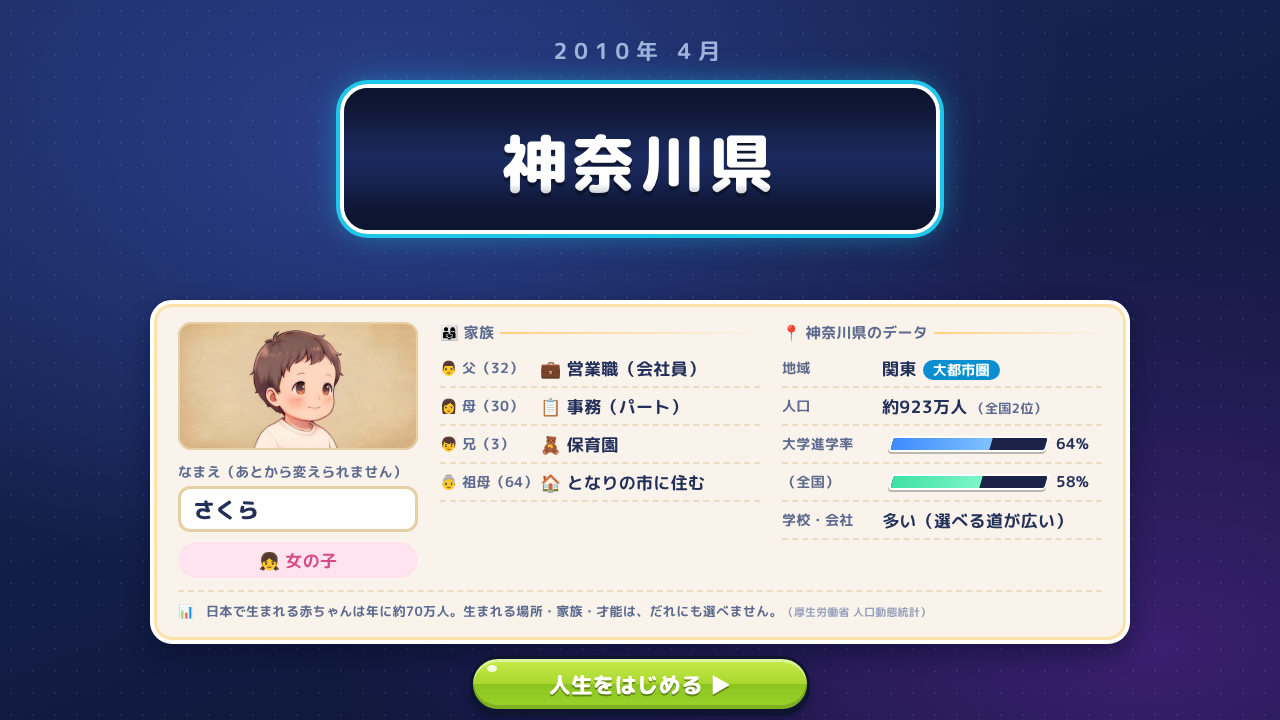
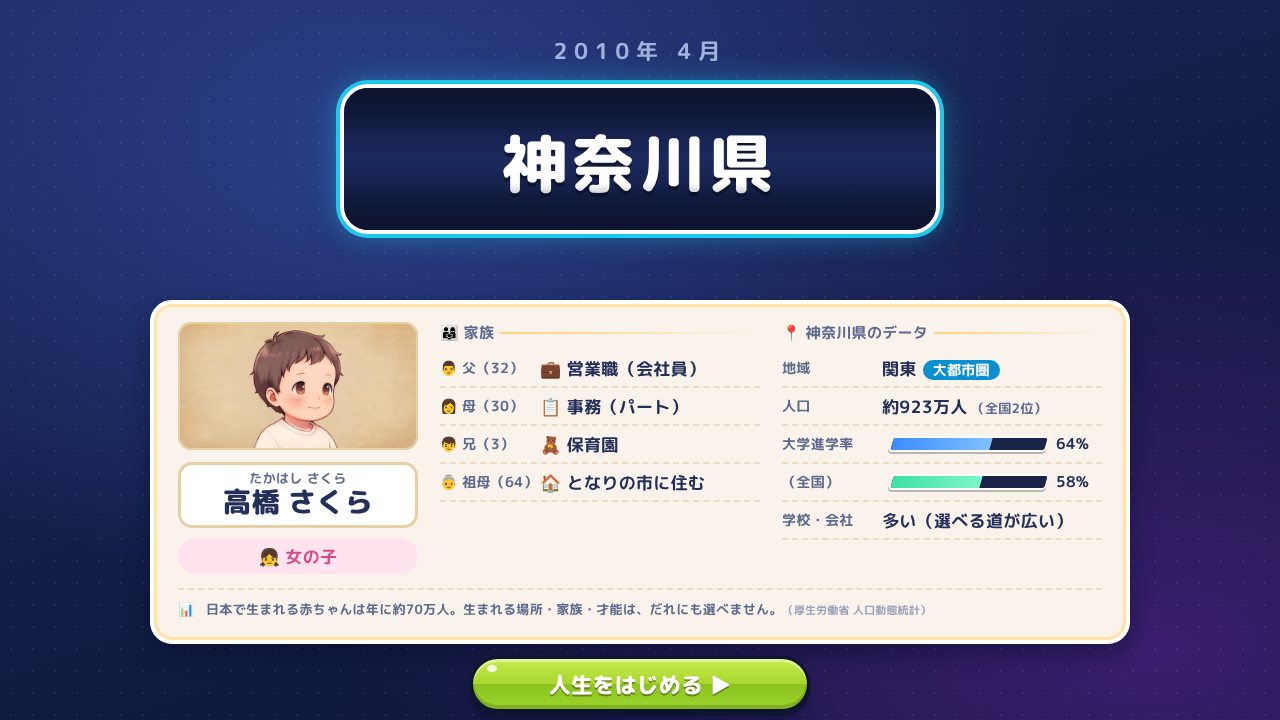
Add gender/name start screen, job detail popup, pay and surname changes
Players pick gender, shuffle surname and given name separately; marriage,
divorce and a parent's divorce can change the surname. Jobs always open a
detail popup, and salary/bonus land in cash each season with a small delta.

Claude-Session: https://claude.ai/code/session_014jpFHFwaTKn7m7KqBEwBuE

Changed region(s): [[0.125, 0.6417, 0.7188, 0.8556], [0.7188, 0.7944, 0.8438, 0.825]]

diff --git a/ui/start.html b/ui/start.html
@@ -1,0 +1,80 @@
+<!doctype html>
+<html lang="ja"><head><meta charset="utf-8"><meta name="viewport" content="width=device-width,initial-scale=1">
+<title>まなびライフ はじめから</title>
+<link rel="stylesheet" href="base.css">
+<style>
+.step{position:absolute;inset:0;display:none}.step.on{display:block;animation:pop .25s}
+.q{position:absolute;left:0;right:0;top:60px;text-align:center;font-size:32px;font-weight:900;text-shadow:0 4px 0 rgba(0,0,0,.35)}
+.q small{display:block;font-size:16px;color:#9fb4dc;font-weight:700;margin-top:6px;text-shadow:none}
+.dots{position:absolute;left:0;right:0;top:28px;display:flex;justify-content:center;gap:8px}
+.dots i{width:40px;height:6px;border-radius:3px;background:rgba(255,255,255,.25)}.dots i.on{background:var(--cyan)}
+/* 性別 */
+.sex{position:absolute;top:180px;width:360px;height:380px;padding:16px;display:flex;flex-direction:column;align-items:center;cursor:pointer;transition:transform .15s}
+.sex:hover{transform:translateY(-4px)}
+.sex .pic{width:320px;height:200px;border-radius:14px;background:center/cover;box-shadow:inset 0 0 0 2px #e6cfa5}
+.sex .l{margin-top:18px;font-size:34px;font-weight:900}
+.sex .d{margin-top:6px;font-size:14px;color:var(--ink2)}
+.sex.sel{box-shadow:0 0 0 5px var(--cyan),0 0 30px rgba(30,200,234,.6),0 10px 22px rgba(5,10,40,.45)}
+#sM{left:240px}#sF{left:680px}
+#sM .l{color:#2f6aa8}#sF .l{color:#d64a86}
+/* 名前 */
+#nm{left:190px;top:170px;width:900px;height:360px;padding:26px 34px}
+.row{display:grid;grid-template-columns:80px 1fr 64px;align-items:center;column-gap:14px;margin-bottom:22px}
+.row .k{font-size:18px;color:var(--ink2)}
+.field{height:96px;border-radius:18px;background:#fff;box-shadow:inset 0 0 0 3px #e6cfa5;display:flex;flex-direction:column;justify-content:center;padding:0 22px}
+.field .kana{font-size:16px;color:var(--ink2);height:20px}
+.field .kj{font-size:44px;font-weight:900;line-height:1.1}
+.field input{font-family:var(--f);font-weight:900;font-size:40px;border:0;outline:0;background:transparent;color:var(--ink);width:100%}
+.field input.kana{font-size:16px;font-weight:700;color:var(--ink2);height:22px}
+.row .sh{width:64px;height:64px;border-radius:50%;font-size:28px;padding:0}
+.full{text-align:center;font-size:18px;color:var(--ink2)}.full b{font-size:24px;color:var(--ink)}
+#self{position:absolute;left:390px;top:560px;width:240px;height:56px;font-size:19px}
+#ok{position:absolute;left:650px;top:560px;width:240px;height:56px;font-size:19px}
+#back{position:absolute;left:40px;top:640px;width:150px;height:46px;font-size:16px}
+.note{position:absolute;left:0;right:0;top:636px;text-align:center;font-size:14px;color:#9fb4dc}
+</style></head>
+<body>
+<div id="stage">
+  <!-- 1. 性別 -->
+  <div class="step on" id="st1">
+    <div class="dots"><i class="on"></i><i></i><i></i></div>
+    <div class="q">どちらで 生まれる？<small>あとから変えることはできません</small></div>
+    <div class="pearl sex" id="sM" data-g="M"><div class="pic" style="background-image:url(../assets/faces/M_20.png)"></div><div class="l">👦 男の子</div><div class="d">0歳から人生がはじまります</div></div>
+    <div class="pearl sex" id="sF" data-g="F"><div class="pic" style="background-image:url(../assets/faces/F_20.png)"></div><div class="l">👧 女の子</div><div class="d">0歳から人生がはじまります</div></div>
+  </div>
+  <!-- 2. 名前 -->
+  <div class="step" id="st2">
+    <div class="dots"><i class="on"></i><i class="on"></i><i></i></div>
+    <div class="q">名前は？<small>🔀 でべつの名前に。自分で決めることもできます</small></div>
+    <div class="pearl" id="nm">
+      <div class="row"><span class="k">苗字</span><div class="field" id="fS"><span class="kana"></span><span class="kj"></span></div><button class="gl g-cyan sh" id="shS">🔀</button></div>
+      <div class="row"><span class="k">名前</span><div class="field" id="fG"><span class="kana"></span><span class="kj"></span></div><button class="gl g-cyan sh" id="shG">🔀</button></div>
+      <div class="full">この名前で生まれます：<b id="full"></b></div>
+    </div>
+    <button class="gl g-navy" id="self">✏ 自分で決める</button>
+    <button class="gl g-green" id="ok">この名前で生まれる ▶</button>
+    <button class="gl g-navy" id="back">◀ もどる</button>
+  </div>
+</div>
+<script>
+const st=document.getElementById('stage');function fit(){const s=Math.min(innerWidth/1280,innerHeight/720);st.style.transform=`translate(-50%,-50%) scale(${s})`}addEventListener('resize',fit);fit();
+const SUR=[['佐藤','さとう'],['鈴木','すずき'],['高橋','たかはし'],['田中','たなか'],['伊藤','いとう'],['渡辺','わたなべ'],['山本','やまもと'],['中村','なかむら'],['小林','こばやし'],['加藤','かとう'],['吉田','よしだ'],['山田','やまだ'],['松本','まつもと'],['井上','いのうえ'],['木村','きむら']];
+const GIV={M:[['大翔','ひろと'],['悠真','ゆうま'],['蓮','れん'],['颯太','そうた'],['湊','みなと'],['陽翔','はると'],['健太','けんた'],['樹','いつき']],F:[['さくら','さくら'],['陽菜','ひな'],['結衣','ゆい'],['葵','あおい'],['美咲','みさき'],['楓','かえで'],['芽依','めい'],['遥','はるか']]};
+let g='F',S=['高橋','たかはし'],G=['さくら','さくら'],self=false;
+const pick=a=>a[Math.floor(Math.random()*a.length)];
+function draw(){
+  for(const [id,v] of [['fS',S],['fG',G]]){const f=document.getElementById(id);
+    f.innerHTML=self?`<input class="kana" value="${v[1]}" placeholder="ふりがな"><input value="${v[0]}" maxlength="6">`:`<span class="kana">${v[1]}</span><span class="kj">${v[0]}</span>`}
+  document.getElementById('full').textContent=`${S[0]} ${G[0]}（${S[1]} ${G[1]}）`;
+}
+document.querySelectorAll('.sex').forEach(c=>c.onclick=()=>{g=c.dataset.g;document.querySelectorAll('.sex').forEach(x=>x.classList.remove('sel'));c.classList.add('sel');
+  G=pick(GIV[g]);setTimeout(()=>{document.getElementById('st1').classList.remove('on');document.getElementById('st2').classList.add('on');draw()},250)});
+document.getElementById('shS').onclick=()=>{S=pick(SUR);self=false;draw()};
+document.getElementById('shG').onclick=()=>{G=pick(GIV[g]);self=false;draw()};
+document.getElementById('self').onclick=()=>{self=true;draw()};
+document.getElementById('back').onclick=()=>{document.getElementById('st2').classList.remove('on');document.getElementById('st1').classList.add('on')};
+document.getElementById('ok').onclick=()=>location.href='birth.html';
+if(location.hash==='#name'){document.getElementById('st1').classList.remove('on');document.getElementById('st2').classList.add('on');draw()}
+if(location.hash==='#self'){document.getElementById('st1').classList.remove('on');document.getElementById('st2').classList.add('on');self=true;draw()}
+</script>
+</body></html>

diff --git a/ui/job.html b/ui/job.html
@@ -1,0 +1,85 @@
+<!doctype html>
+<html lang="ja"><head><meta charset="utf-8"><meta name="viewport" content="width=device-width,initial-scale=1">
+<title>まなびライフ 職業の詳細</title>
+<link rel="stylesheet" href="base.css">
+<style>
+#behind{position:absolute;inset:0;background:url(../docs/ui/mock-adult.png) center/cover;filter:blur(1px)}
+#box{position:relative;width:1180px;height:600px;padding:18px 22px;color:var(--ink);display:grid;grid-template-columns:430px 1fr;column-gap:20px;
+  background:#fcf9f3;border:4px solid #fff;border-radius:24px;box-shadow:inset 0 0 0 3px #ffe2a8,0 16px 40px rgba(5,10,40,.6);animation:pop .22s ease-out}
+.cs{position:absolute;left:24px;top:-20px;height:38px;padding:0 16px;border-radius:999px;display:flex;align-items:center;gap:6px;font-size:16px;color:#fff;
+  background:linear-gradient(180deg,#26346e,#16224a);border:3px solid #fff;box-shadow:0 4px 0 rgba(0,0,0,.25)}
+/* 左 */
+.img{height:242px;border-radius:16px;background:url(../assets/bg/hospital.jpg) center/cover;position:relative;box-shadow:inset 0 0 0 3px #fff}
+.img .tag{position:absolute;left:10px;bottom:10px;height:32px;padding:0 12px;border-radius:999px;background:rgba(13,21,48,.82);color:#fff;font-size:15px;display:flex;align-items:center;gap:6px;border:2px solid rgba(255,255,255,.7)}
+.jt{margin-top:12px;display:flex;align-items:center;gap:10px}
+.jt .e{font-size:42px}
+.jt .n{font-size:28px;font-weight:900;line-height:1.1}
+.jt .n small{display:block;font-size:14px;color:var(--ink2);font-weight:700}
+.chips{display:flex;flex-wrap:wrap;gap:6px;margin-top:10px}
+.chip{height:28px;padding:0 10px;border-radius:999px;background:#fff;box-shadow:0 2px 0 #d9cdb5;font-size:14px;display:inline-flex;align-items:center;gap:4px}
+.chip.ok{background:#e4f8ee;color:#1f9d6a}.chip.ng{background:#ffe8eb;color:#d0384f}
+.rate{margin-top:12px;height:64px;border-radius:16px;display:flex;align-items:center;justify-content:space-between;padding:0 18px;background:linear-gradient(180deg,#5fe0a8,#2fbf86);color:#fff;text-shadow:0 2px 0 rgba(0,0,0,.2)}
+.rate span{font-size:16px}.rate b{font-size:36px}
+.ai{margin-top:10px;height:40px;border-radius:12px;background:#eef4ff;display:flex;align-items:center;gap:8px;padding:0 14px;font-size:15px}
+.ai b{color:#1f9d6a}
+/* 右 */
+.sec{background:#fff;border-radius:16px;padding:10px 16px;box-shadow:0 3px 0 #ecdcc2;margin-bottom:12px}
+.sec h4{font-size:14px;color:var(--ink2);margin-bottom:6px}
+.money{display:grid;grid-template-columns:1fr 1fr 1fr;gap:10px}
+.money div{background:#fbf3e3;border-radius:12px;padding:8px 12px}
+.money span{display:block;font-size:13px;color:var(--ink2)}
+.money b{font-size:24px}.money small{font-size:13px;color:var(--ink2)}
+.ld{display:grid;grid-template-columns:130px 1fr 44px 42px;align-items:center;column-gap:10px;height:34px;font-size:16px}
+.lv{height:26px;border-radius:999px;display:flex;align-items:center;justify-content:center;font-size:14px;color:#fff}
+.lv.h{background:#e44d62}.lv.m{background:#f0a81c}.lv.l{background:#2fbf86}
+.stars{color:#f0a81c;letter-spacing:2px;font-size:18px}.stars i{color:#e6dccb;font-style:normal}
+.eff{display:grid;grid-template-columns:repeat(4,1fr);gap:8px}
+.eff div{height:58px;border-radius:12px;background:#fbf3e3;display:flex;flex-direction:column;align-items:center;justify-content:center;font-size:14px;color:var(--ink2)}
+.eff b{font-size:18px}.dn{color:#e44d62}.up{color:#1f9d6a}
+.btns{display:grid;grid-template-columns:1fr 1fr;gap:12px;margin-top:4px}
+.btns button{height:56px;font-size:19px}
+.src{margin-top:10px}
+</style></head>
+<body>
+<div id="stage">
+  <div id="behind"></div>
+  <div class="ov">
+    <div id="box">
+      <div class="cs">💼 就職活動 ・ 2032年4月</div>
+      <div>
+        <div class="img"><span class="tag">📍 神奈川県の総合病院</span></div>
+        <div class="jt"><span class="e">🧑⚕</span><span class="n"><small>医療｜正社員</small>看護師</span></div>
+        <div class="chips"><span class="chip ok">✓ 看護師免許</span><span class="chip ok">✓ 専門学校卒以上</span><span class="chip">🌙 夜勤あり</span><span class="chip">⏰ 残業 月20時間</span></div>
+        <div class="rate"><span>この職場の合格率</span><b>82%</b></div>
+        <div class="ai">🤖 AIの影響：<b>小</b>（人にしかできないケアが中心）</div>
+      </div>
+      <div>
+        <div class="sec"><h4>💴 お給料</h4>
+          <div class="money">
+            <div><span>年収（1年目）</span><b>400</b><small>万円</small></div>
+            <div><span>年収（50歳ごろ）</span><b>580</b><small>万円</small></div>
+            <div><span>手取りの月収</span><b>20.8</b><small>万円</small></div>
+          </div>
+          <div style="margin-top:6px;font-size:14px;color:var(--ink2)">💰 賞与（ボーナス）：年2回・合計4か月分　／　手取り＝給料から税金・保険料をひいた額</div>
+        </div>
+        <div class="sec"><h4>⚖ たいへんさ・はたらきやすさ</h4>
+          <div class="ld"><span>💪 肉体負荷</span><span class="bar c-red"><i style="--w:75%"></i></span><span>75</span><span class="lv h">大</span></div>
+          <div class="ld"><span>🧠 精神負荷</span><span class="bar c-blue"><i style="--w:70%"></i></span><span>70</span><span class="lv h">大</span></div>
+          <div class="ld"><span>🏢 福利厚生</span><span class="stars">★★★★<i>★</i></span><span></span><span class="lv l">よい</span></div>
+        </div>
+        <div class="sec"><h4>📊 1年ごとのステータスの変化（めやす）</h4>
+          <div class="eff">
+            <div>❤ 健康<b class="dn">↓ 大</b></div>
+            <div>😣 ストレス<b class="dn">↑ 大</b></div>
+            <div>🤝 人間関係<b class="up">↑ 中</b></div>
+            <div>😊 満足感<b class="up">↑ 中</b></div>
+          </div>
+        </div>
+        <div class="btns"><button class="gl g-navy">◀ ほかの候補にもどる</button><button class="gl g-green">この職場を受ける ▶</button></div>
+        <div class="src"><span>📊</span><span>看護師国家試験の合格率は約90%。看護師は全国に約130万人います。<small>（厚生労働省）</small></span></div>
+      </div>
+    </div>
+  </div>
+</div>
+<script>const st=document.getElementById('stage');function fit(){const s=Math.min(innerWidth/1280,innerHeight/720);st.style.transform=`translate(-50%,-50%) scale(${s})`}addEventListener('resize',fit);fit();</script>
+</body></html>

diff --git a/ui/mock.html b/ui/mock.html
@@ -83,8 +83,13 @@ button:active{transform:translateY(3px) scale(.98)}
 .bar i{display:block;height:100%;width:var(--w);background:linear-gradient(90deg,var(--c1),var(--c2));transition:width .6s}
 .c-blue{--c1:#3d8bff;--c2:#7fc0ff}.c-red{--c1:#ff5a6e;--c2:#ffb04d}.c-mint{--c1:#3fe0a4;--c2:#7cf7c9}.c-pink{--c1:#ff6fa8;--c2:#ffb3d3}
 .c-gold{--c1:#ffcf3f;--c2:#fff09a}.c-gray{--c1:#7f8bb0;--c2:#b6c0de}
-.row .num{grid-column:2/4;justify-self:end;font-size:19px}
+.row .num{grid-column:2/4;justify-self:end;font-size:19px;white-space:nowrap}
 .row .num small{font-size:14px;color:var(--ink2);margin-left:2px}
+.delta{display:inline-block;vertical-align:2px;margin-right:5px;font-size:11px;white-space:nowrap;padding:0 6px;border-radius:999px;line-height:19px;animation:dfloat 1.6s ease-out infinite}
+.delta.inc{color:#fff;background:#2fbf86}
+.delta.bonus{color:#5a3d00;background:#ffcf3f}
+.delta.exp{color:#fff;background:#e44d62}
+@keyframes dfloat{0%{transform:translateY(6px);opacity:0}20%{transform:none;opacity:1}80%{opacity:1}100%{transform:translateY(-4px);opacity:0}}
 .dash{grid-column:2/4;justify-self:end;color:#b4bdd6;font-size:18px}
 
 /* ===== 重点方針・季節 ===== */
@@ -316,7 +321,7 @@ if(location.hash==='#adult'){
   const jr=document.querySelectorAll('#stat > div:nth-child(2) .row');
   jr[0].innerHTML='<span class="lb">💴 月収</span><span class="num">38.2<small>万円</small></span>';
   [[1,'c-red',55],[2,'c-blue',62],[3,'c-gold',58]].forEach(([i,c,v])=>{jr[i].querySelector('.bar').className='bar '+c;jr[i].querySelector('i').style.setProperty('--w',v+'%');jr[i].querySelector('.v').textContent=v});
-  jr[4].innerHTML='<span class="lb">👛 所持金</span><span class="num">312<small>万円</small></span>';
+  jr[4].innerHTML='<span class="lb">👛 所持金</span><span class="num"><span class="delta bonus">💰+124</span>312<small>万円</small></span>';
   document.getElementById('focus').innerHTML='<span class="k">重点方針</span>💼 仕事<span class="arw">▼</span>';
 }
 

diff --git a/ui/birth.html b/ui/birth.html
@@ -18,7 +18,8 @@
 #card{left:150px;top:300px;width:980px;height:344px;padding:18px 24px;display:grid;grid-template-columns:240px 1fr 1fr;column-gap:22px;opacity:0;transform:translateY(16px);transition:.5s}
 #card.on{opacity:1;transform:none}
 #card .pic{width:240px;height:128px;border-radius:14px;background:url(../assets/faces/F_0.png) center/cover;box-shadow:inset 0 0 0 2px #e6cfa5}
-#card .nm{margin-top:12px;font-size:14px;color:var(--ink2)}
+#card .fn{margin-top:12px;height:66px;border-radius:14px;background:#fff;box-shadow:inset 0 0 0 3px #e6cfa5;display:flex;flex-direction:column;justify-content:center;align-items:center;font-size:28px;font-weight:900;line-height:1.15}
+#card .fn small{font-size:13px;color:var(--ink2);font-weight:700}
 #card input{margin-top:4px;width:240px;height:46px;border-radius:12px;border:3px solid #e6cfa5;background:#fff;font-family:var(--f);font-weight:800;font-size:22px;color:var(--ink);padding:0 12px}
 #card .sex{margin-top:10px;height:36px;border-radius:999px;background:#ffe3ef;color:#d64a86;display:flex;align-items:center;justify-content:center;font-size:17px}
 .kv{display:grid;grid-template-columns:100px 1fr;align-items:center;min-height:38px;border-bottom:2px dashed #ecdcc2;font-size:17px}
@@ -40,8 +41,7 @@
   <div class="pearl" id="card">
     <div>
       <div class="pic"></div>
-      <div class="nm">なまえ（あとから変えられません）</div>
-      <input value="さくら" maxlength="6">
+      <div class="fn"><small>たかはし さくら</small>高橋 さくら</div>
       <div class="sex">👧 女の子</div>
     </div>
     <div>

diff --git a/docs/10-event-catalog.md b/docs/10-event-catalog.md
@@ -6,7 +6,7 @@
 
 | | ID | 時期 | 条件 | 文章 | 選択肢 |
 |---|---|---|---|---|---|
-| 👶 | `ev_m_birth` | 0歳 春 |  | {year}年、{pref}で{name}が生まれた。家族は{family}。 |  |
+| 👶 | `ev_m_birth` | 0歳 春 |  | {year}年{month}月、{pref}で「{surname} {given}」が生まれた。家族は{family}。 |  |
 | 🧸 | `ev_m_preschool` | 3歳 春 |  | {name}も3歳。保育園や幼稚園をどうするか、家族で話し合っている。 | ［候補リスト:schools.preschool］ |
 | 🧒 | `ev_m_like_3` | 3歳 秋 |  | {name}は、どんなことをしているときが一番楽しそう？ | 🏃 外で遊ぶ<br>📖 本を読む<br>🎨 絵をかく<br>🔢 数をかぞえる・パズル<br>🎮 テレビゲーム<br>🙂 とくに決まっていない |
 | 🎒 | `ev_m_lesson_start` | 4歳 秋 |  | 近所の子が習い事を始めたらしい。{name}にも何かやらせてみる？ | ［候補リスト:clubs.lessons］<br>🏠 今はまだいい |
@@ -72,7 +72,7 @@
 | 🚗 | `ev_m_license_return` | 75〜100歳 春 | 必要:lic_car / 除外:license_returned | {age}歳。家族から「運転免許、そろそろ返したら？」と言われた。 | 🪪 免許を返納する<br>🚗 まだ運転を続ける |
 | 🕊 | `ev_m_death` |  |  | {year}年{month}月。{name}は{age}歳で人生を終えた。{deathCause} |  |
 
-## ランダム選択肢イベント（109件）
+## ランダム選択肢イベント（111件）
 
 | | ID | 時期 | 条件 | 文章 | 選択肢 |
 |---|---|---|---|---|---|
@@ -112,6 +112,8 @@
 | 🎓 | `ev_r_child_univ_cost` |  | 子どもあり | {child}が大学に行きたいと言っている。学費は4年で{childTuition}万円。 | 💴 全部出してあげる<br>🤝 半分出して、残りは奨学金<br>📄 奨学金で行ってもらう<br>🙅 就職してほしいと伝える |
 | ⚡ | `ev_r_marital_crisis` |  | 必要:married / 人物:spouse | {spouse}との言い合いが増え、家の空気が重い。 | 🗣 時間をとって話し合う<br>🏥 夫婦カウンセリングに行く（10万）<br>💔 離婚する<br>😶 何もしない |
 | 💔 | `ev_r_divorce` |  | 必要:married / 人物:spouse | 離婚の話し合い。{childrenComment} | 📄 話し合いで決める（協議離婚）<br>⚖ 弁護士に頼む（費用50万） |
+| 📝 | `ev_r_surname_marry` |  | 必要:married | 婚姻届を出す。日本の法律では、夫婦はどちらかの苗字にそろえる。どちらの苗字にする？ | 🙂 自分の苗字「{surname}」のまま（相手が変える）<br>📝 相手の苗字「{partnerSurname}」に変える |
+| 📝 | `ev_r_surname_divorce` |  | 必要:divorced / 除外:married | 離婚した。結婚のときに変えた苗字を、もとにもどす？（今の苗字を使い続けるなら、3か月以内に届け出が必要） | ↩ 旧姓「{birthSurname}」にもどす<br>📝 今の苗字「{surname}」を使い続ける |
 | 🌷 | `ev_r_remarry_meet` | 28〜75歳 | どれか:divorced,widowed / 除外:married,has_partner | 新しい出会いがあった。もう一度、だれかと人生を歩む？ | 🌷 付き合ってみる<br>🙂 今はひとりでいい |
 | 🚗 | `ev_r_car_license` | 18〜40歳 | 除外:lic_car | 運転免許をとろうか考えている。 | 🏕 合宿で一気にとる（約25万・2週間）<br>🏫 教習所に通う（約32万）<br>🙅 今はとらない |
 | 🚙 | `ev_r_car_buy` | 18〜80歳 | 必要:lic_car / 除外:owns_car,license_returned | 車があったら便利だな……。 | 🚙 中古車を買う（80万）<br>🚗 新車をローンで買う（250万・5年ローン）<br>🚲 なくても生活できる |

diff --git a/docs/11-screens-and-save.md b/docs/11-screens-and-save.md
@@ -11,8 +11,10 @@
 | 画面 | ファイル | 内容 |
 |---|---|---|
 | タイトル | `ui/title.html` | 白背景・ロゴ画像。ボタンは「はじめから（つづきから）」「これまでの人生」「オプション」だけ。`#continue` でつづきから表示 |
-| 誕生 | `ui/birth.html` | 2010年4月。都道府県のルーレット → 「〇〇県に誕生した！」。性別・家族・県のデータ・なまえ入力（あとから変更不可）→「人生をはじめる」。`#done` で止まった状態 |
-| メイン | `ui/mock.html` | タイムライン・ステータス・背景。`#adult` で社会人の表示 |
+| 性別・名前 | `ui/start.html` | ①男の子／女の子を選ぶ ②苗字・名前を別々にランダム表示（🔀でシャッフル、✏自分で決める）。`#name`・`#self` で②の表示 |
+| 誕生 | `ui/birth.html` | 2010年4月。都道府県のルーレット → 「〇〇県に誕生した！」。名前・性別・家族・県のデータ →「人生をはじめる」。`#done` で止まった状態 |
+| 職業の詳細 | `ui/job.html` | 就職・転職の候補をタップすると必ず出る。職場の画像・年収・手取り・賞与・負荷・福利厚生・ステータスの変化・必要資格・AIの影響・合格率（`data/job_display.json`） |
+| メイン | `ui/mock.html` | タイムライン・ステータス・背景。`#adult` で社会人の表示。季節が進むと所持金の横に「＋62」「💰+124（賞与つき）」「−12」が小さく出て消える |
 | 通知表 | `ui/report.html` | 毎年3月。紙の通知表（小は◎〇△、中高は1〜5）＋先生のことば（才能のヒント）＋来年度の重点方針を選ぶ |
 | リザルト | `ui/result.html` | 人生のまとめ・才能の公開・お金のグラフ（マイナスの時期を赤で表示）・できごとを、4つのタブで切りかえ（スクロールなし） |
 | これまでの人生 | （未作成） | リザルトの一覧。名前・生まれた県・年数・エンディング・点数のカードを並べ、タップでリザルトを開く |

diff --git a/docs/09-engine-state-flags.md b/docs/09-engine-state-flags.md
@@ -150,7 +150,8 @@ subj.X = clamp(subj.X + 伸び − 忘却, 1, 99)
 
 0. **生まれた年**：**2010年で固定**（2020年に10歳、2030年に20歳）。世の中の出来事（東日本大震災・コロナ・AIの時代）は `data/events_world.json`、AIによる仕事の置きかわりは `data/ai_impact.json`
 1. **都道府県**：人口比で抽選（`data/prefectures.json` の population 比）。神奈川が出やすく鳥取は出にくい、が自然に起きる
-2. **性別**：男女 51:49（出生性比）。※恋愛・結婚・出産の相手判定に使う。プレイヤーの性別による職業制限は**設けない**
+2. **性別**：**プレイヤーが最初に選ぶ**（男の子／女の子）。恋愛・結婚・出産の相手判定に使う。性別による職業制限は**設けない**
+2-2. **名前**：苗字と名前を別々にランダム表示（`data/names.json`）。それぞれ🔀でシャッフル、「自分で決める」で入力。母の旧姓（`motherMaiden`）もこのとき別の苗字から決めておく。苗字は結婚（ev_r_surname_marry）・離婚（ev_r_surname_divorce）・親の離婚で母についていったとき（母の旧姓へ）に変わる
 3. **家庭の裕福さ** `familyWealth`：都道府県の世帯所得係数で補正した分布から抽選 → 世帯年収帯
    | 帯 | 値 | 世帯年収 | 出現率（目安） |
    |---|---|---|---|
